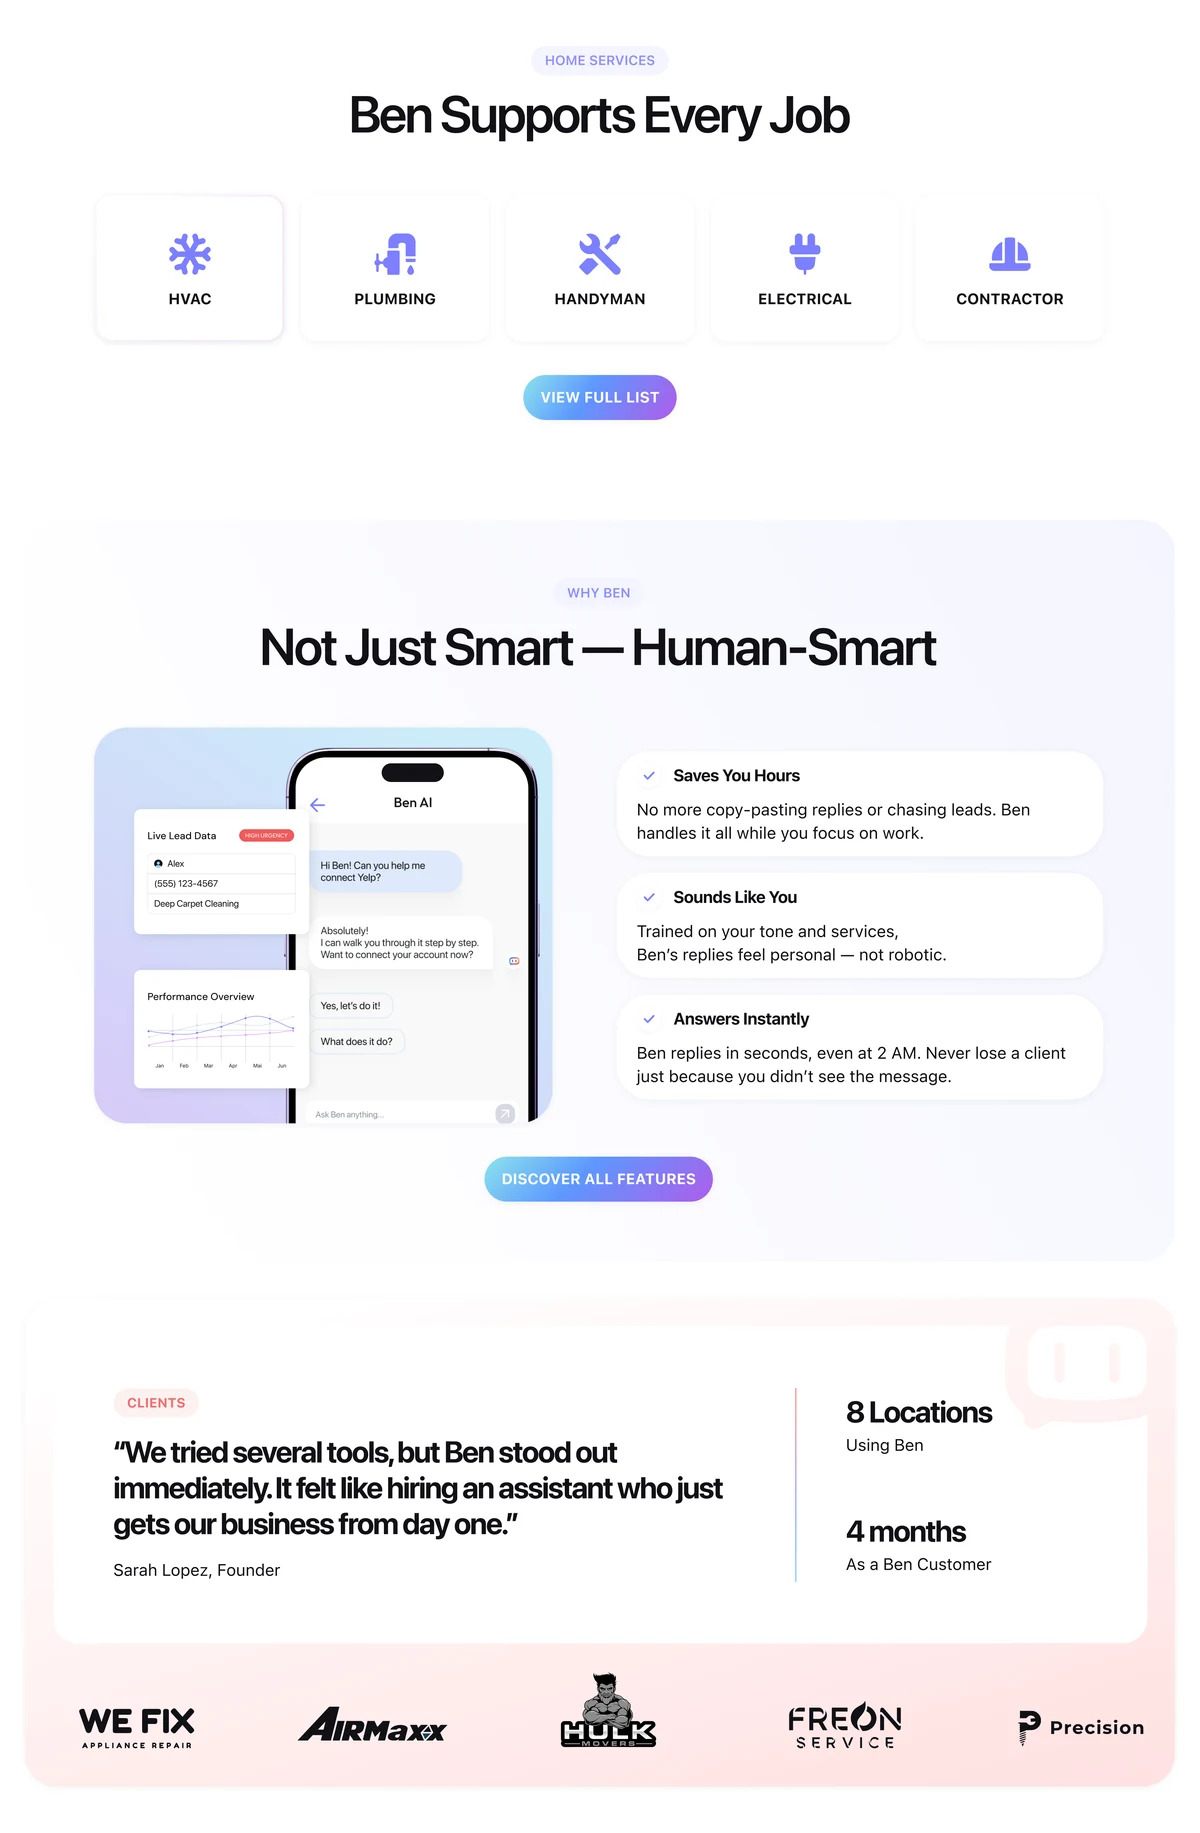
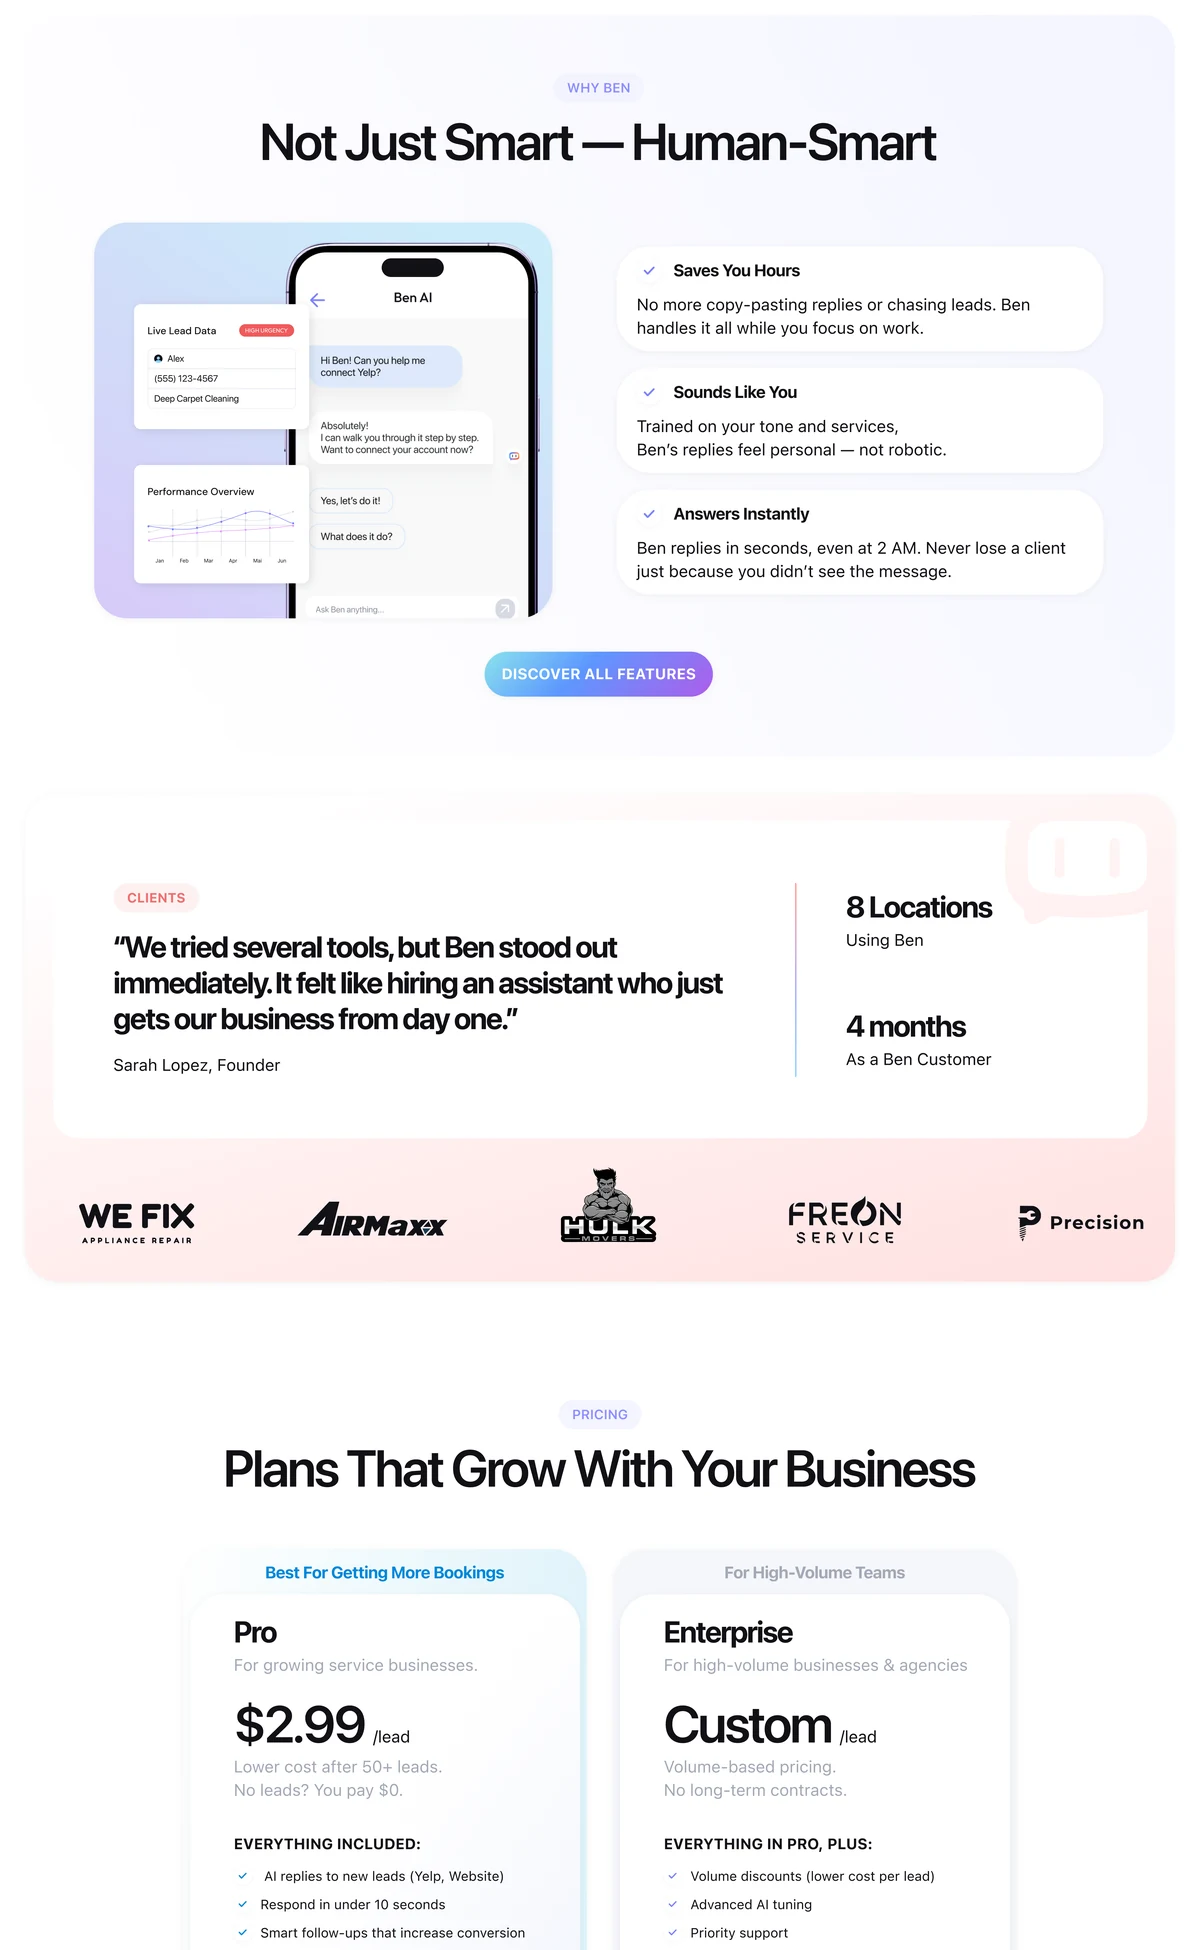
Ben AI: corner links, drop channel stack, even website columns, full-bleed print bento
Claude-Session: https://claude.ai/code/session_01UyFrCnXTmbWJrWvnmSMrxq

diff --git a/src/data/cases.ts b/src/data/cases.ts
@@ -6,7 +6,7 @@ export type Visual =
   | { layout: 'single'; items: Ph[] }          // one big image
   | { layout: 'stack'; items: Ph[] }           // two small on top, one wide below
   | { layout: 'row'; items: Ph[] };            // three phones in a row
-export interface ShowScreen { id: string; nav: string; ch?: string; kind: 'soon' | 'intro' | 'full' | 'slide' | 'v2a' | 'v3s' | 'v2s' | 'v3h' | 'v3l' | 'v4d' | 'v3c' | 'stack' | 'outro'; tone: string; title?: string; lede?: string; link?: { label: string; href: string }; twin?: string[]; pages?: boolean; cut?: number; fit?: boolean; fill?: boolean; flush?: boolean; asp?: number; flushLeft?: boolean; pad?: boolean; zoom?: boolean; flushBoth?: boolean; cols?: boolean; src?: string; alt?: string; cells?: { label?: string; spec?: string; src?: string; alt?: string; pos?: string; fit?: boolean; bg?: string }[]; caption?: string }
+export interface ShowScreen { id: string; nav: string; ch?: string; kind: 'soon' | 'intro' | 'full' | 'slide' | 'v2a' | 'v3s' | 'v2s' | 'v3h' | 'v3l' | 'v4d' | 'v3c' | 'stack' | 'outro'; tone: string; title?: string; lede?: string; link?: { label: string; href: string }; links?: { label: string; href: string }[]; twin?: string[]; pages?: boolean; cut?: number; fit?: boolean; fill?: boolean; flush?: boolean; asp?: number; flushLeft?: boolean; pad?: boolean; zoom?: boolean; flushBoth?: boolean; cols?: boolean; src?: string; alt?: string; cells?: { label?: string; spec?: string; src?: string; alt?: string; pos?: string; fit?: boolean; bg?: string }[]; caption?: string }
 export interface Show { oneLiner: string; meta: { label: string; value: string }[]; about: { text: string; credits: { label: string; value: string }[] }; screens: ShowScreen[]; closing?: { title: string; lede: string }; next?: { slug: string; name: string } }
 export interface Ph { label: string; spec: string; src?: string; srcs?: string[]; combo?: string[]; audit?: { name: string; logo: string; phone: string; cards: { tag: 'Sending' | 'Swap' | 'Risk exposure' | 'Clarity'; text: string }[] }[]; reviews?: { tag: string; text: string; source: 'appstore' | 'reddit' | 'github'; meta: string; from?: string }[]; evid?: { top: { lead: string; source?: string; items: { value: string; scope?: string; text: string }[] }; frames: { ratio?: string; shots: { src: string; name: string; alt: string; logo: string }[]; plan?: { week: string; name: string; line: string; tags: string[]; color: string }[]; finds?: { kind: 'first' | 'deeper'; tag: string; icon: string; text: string }[] }[] }; soft?: boolean; pan?: { src: string; wide?: boolean; alt?: string; marks?: { n: number; x: number; y: number }[] }[]; scroll?: boolean; sys?: boolean; cost?: { on: number; total: number; value: string; text: string; ring: number; ringText: string; source: string }; stages?: { items: { value: string; icon?: string; stage: string; metric: string; what: string; how: string }[]; note?: string }; hyps?: { saw: string; q: string; a: string; icon?: string }[]; stats?: { lead: string; items: { value: string; text: string; label?: string }[]; source?: string; nopct?: boolean }; metrics?: { title: string; items: { value: string; label: string; note: string; wide?: boolean; pair?: { before: number; after: number; max: number; unit: string } }[] }[]; scope?: { name: string; why: string; d: 'keep' | 'limit' | 'cut' }[]; compare?: { cols: string[]; rows: { label: string; a: boolean | 'part'; b: boolean | 'part' }[]; note?: string }; zoom?: boolean; pad?: boolean; bleed?: boolean; peek?: boolean; twin?: { src: string }[]; slide?: boolean; pn?: string; dm?: boolean; wipph?: boolean; big?: boolean; noconf?: boolean; cut?: string; chain?: { icon: string; label: string }[]; flat?: boolean; trio?: { src?: string; label?: string; icon?: string; facts?: { caption: string; items: { value: string; label: string }[] } }[]; alt?: string; flip?: boolean; matrix?: { title: string; cols: { name: string; logo: string }[]; groups: { label: string; rows: { label: string; v: boolean[] }[] }[] }; voices?: { num: string; label: string; quote: string; who: string; sub?: string; tag: string; tagIcon: string }[]; finds?: { icon: string; cat: string; level: 'catastrophe' | 'major' | 'minor'; score: string; title: string; text: string; src: string; pos?: string; alt?: string }[] }   // srcs = transparent device renders composed on the tint
 
@@ -826,7 +826,7 @@ export const cases: CaseData[] = [
       about: { text: 'Ben AI answers leads for home-service businesses. At Danart I led the design of its brand and website, from the first launch in July 2025 to a second phase in January 2026, after the product won Yelp’s Best in Innovation award. I worked with an art director and an SEO specialist.', credits: [{ label: 'Role', value: 'Lead Designer' }, { label: 'Timeline', value: 'July 2025 – January 2026' }, { label: 'Responsibilities', value: 'Brand, website, motion, print' }] },
       closing: { title: 'A brand that <em>answers first</em>', lede: 'Ben AI later won Best in Innovation at the Yelp Advertising Partner Awards, 2025.' },
       screens: [
-        { id: 'intro', ch: 'Story', nav: 'Story', kind: 'v2a', tone: '#0c0b10', title: 'Never miss a lead', link: { label: 'Case study', href: 'https://www.behance.net/gallery/246929869/AI-AUTORESPONDER-WEB-AND-BRAND-DESIGN' }, lede: 'Ben AI answers leads from Yelp, Thumbtack and website chat for home-service businesses. Danart was hired to launch it: a logo, a brand and a website that make AI feel simple and safe.', cells: [
+        { id: 'intro', ch: 'Story', nav: 'Story', kind: 'v2a', tone: '#0c0b10', title: 'Never miss a lead', links: [{ label: 'Behance case study', href: 'https://www.behance.net/gallery/246929869/AI-AUTORESPONDER-WEB-AND-BRAND-DESIGN' }, { label: 'Live website', href: 'https://ben24.ai' }], lede: 'Ben AI answers leads from Yelp, Thumbtack and website chat for home-service businesses. Danart was hired to launch it: a logo, a brand and a website that make AI feel simple and safe.', cells: [
           { src: '/images/ben-tablets-set.webp', bg: '#92303C', fit: true, alt: 'Ben AI website on three tablets: Respond To Every Lead, Turn Visitors Into Bookings and Smarter Yelp Ads' }] },
         { id: 'logos', ch: 'Logo', nav: 'Logo', kind: 'v4g', tone: '#242322', title: 'Four takes on a friendly face', lede: 'The brief was a friendly face for an AI assistant. We presented the client with four directions.', cells: [
           { src: '/images/ben-concept-1.webp', bg: '#ffffff', alt: 'Ben AI logo direction: a robot head with ears and a speech-bubble face, on white' },
@@ -834,17 +834,13 @@ export const cases: CaseData[] = [
           { src: '/images/ben-concept-3.webp', bg: '#242322', alt: 'Ben AI logo direction: a round mascot with a speech-bubble mouth, on dark' },
           { src: '/images/ben-concept-4.webp', bg: '#ffffff', alt: 'Ben AI logo direction: a blue robot head with an antenna, on white' }] },
         { id: 'mark', ch: 'Logo', nav: 'Logo', kind: 'full', tone: '#ffffff', title: 'The bubble with eyes', lede: 'The client chose it: it reads as a chat and a face at once. Blue and violet carry the technology, red and orange the warmth.', src: '/images/ben-colors.webp', alt: 'The final Ben AI logo, a gradient speech bubble with two eyes, on a construction grid, with six brand colours and their hex codes' },
-        { id: 'heroes', ch: 'Website', nav: 'Website', kind: 'stack', tone: '#46478A', title: 'One page for each channel', lede: 'Autoresponder, Live Chat and Yelp Ads each have their own page.', cells: [
-          { src: '/images/ben-site-autoresponder.webp', bg: '#0086D9', alt: 'Ben AI home page: Respond To Every Lead' },
-          { src: '/images/ben-site-livechat.webp', bg: '#7D7FFF', alt: 'Ben AI live chat page: Turn Visitors Into Bookings' },
-          { src: '/images/ben-site-yelpads.webp', bg: '#EF5A5A', alt: 'Ben AI Yelp Ads page: Smarter Yelp Ads' }] },
-        { id: 'web-a', ch: 'Website', nav: 'Website', kind: 'intro', tone: '#92303C', pages: true, flush: true, cols: true, asp: 1.535, twin: ['/images/ben-site-p1.webp', '/images/ben-site-p2.webp'], alt: 'The Ben AI website, first part: Yelp leads and Yelp Ads management on the left, Thumbtack and the website live chat on the right' },
-        { id: 'web-b', ch: 'Website', nav: 'Website', kind: 'intro', tone: '#46478A', pages: true, flush: true, cols: true, asp: 1.535, twin: ['/images/ben-site-p3.webp', '/images/ben-site-p4.webp'], alt: 'The Ben AI website, middle part: visitors to customers and industry recognition on the left, supported jobs, why Ben and clients on the right' },
-        { id: 'web-c', ch: 'Website', nav: 'Website', kind: 'intro', tone: '#0B4F82', pages: true, flush: true, cols: true, asp: 1.535, twin: ['/images/ben-site-p5.webp', '/images/ben-site-p6.webp'], alt: 'The Ben AI website, last part: pricing and the closing call to action on the left, results, FAQ and the footer on the right' },
+        { id: 'web-a', ch: 'Website', nav: 'Website', kind: 'intro', tone: '#92303C', cols: true, twin: ['/images/ben-site-p1.webp', '/images/ben-site-p2.webp'], alt: 'The Ben AI website, first part: Yelp leads and Yelp Ads management on the left, Thumbtack and the website assistant on the right' },
+        { id: 'web-b', ch: 'Website', nav: 'Website', kind: 'intro', tone: '#46478A', cols: true, twin: ['/images/ben-site-p3.webp', '/images/ben-site-p4.webp'], alt: 'The Ben AI website, middle part: visitors to customers and industry recognition on the left, why Ben and clients on the right' },
+        { id: 'web-c', ch: 'Website', nav: 'Website', kind: 'intro', tone: '#0B4F82', cols: true, twin: ['/images/ben-site-p5.webp', '/images/ben-site-p6.webp'], alt: 'The Ben AI website, last part: pricing and the closing call to action on the left, results, FAQ and the footer on the right' },
         { id: 'print', ch: 'Print', nav: 'Print', kind: 'v3l', tone: '#1C1630', title: 'The same answer at the trade-show booth', lede: 'A brochure, business cards and a banner for AHR Expo, Las Vegas.', cells: [
-          { src: '/images/ben-print-brochure.webp', fit: true, bg: '#46478A', alt: 'Ben AI three-panel brochure: Never miss a Yelp lead, Yelp leads are expensive, Why Ben AI' },
-          { src: '/images/ben-banner.webp', fit: true, bg: '#92303C', alt: 'Ben AI event banner on a fence: Never miss a Yelp lead' },
-          { src: '/images/ben-print-cards.webp', fit: true, bg: '#0B4F82', alt: 'Ben AI business cards with the speech-bubble logo' }] },
+          { src: '/images/ben-print-brochure.webp', pos: '50% 50%', alt: 'Ben AI three-panel brochure: Never miss a Yelp lead, Yelp leads are expensive, Why Ben AI' },
+          { src: '/images/ben-print-cards.webp', pos: '50% 50%', alt: 'Ben AI business cards with the speech-bubble logo' },
+          { src: '/images/ben-banner.webp', pos: '50% 55%', alt: 'Ben AI event banner on a fence: Never miss a Yelp lead' }] },
         { id: 'outcome', ch: 'Next', nav: 'Next', kind: 'outro', tone: '#1C1630' },
       ],
     },
